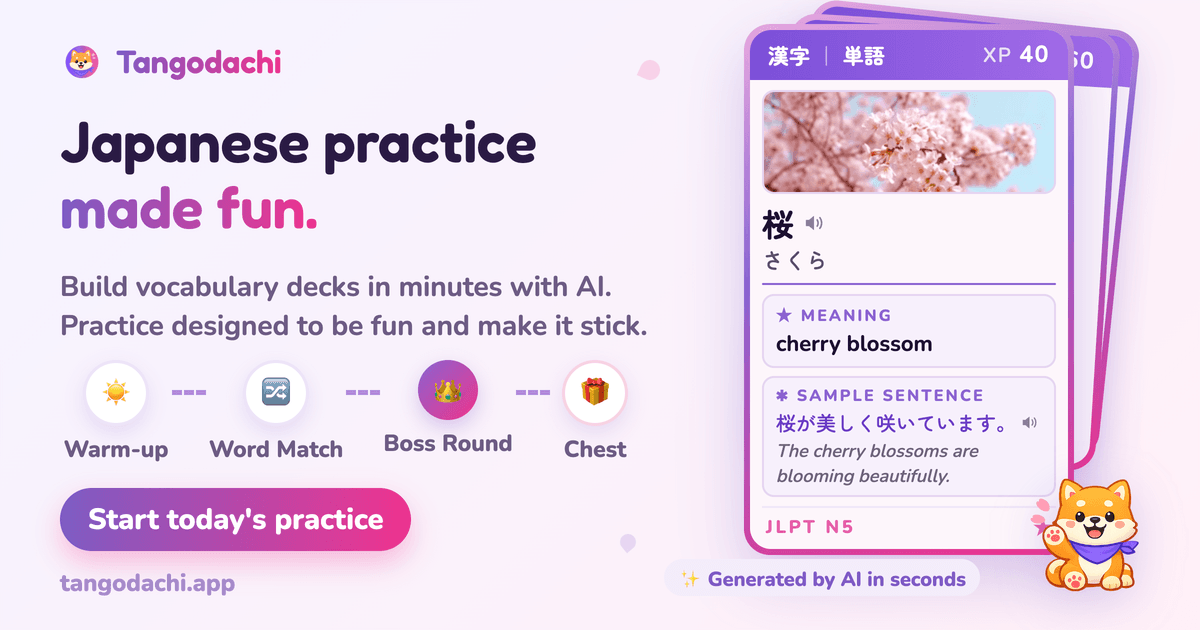
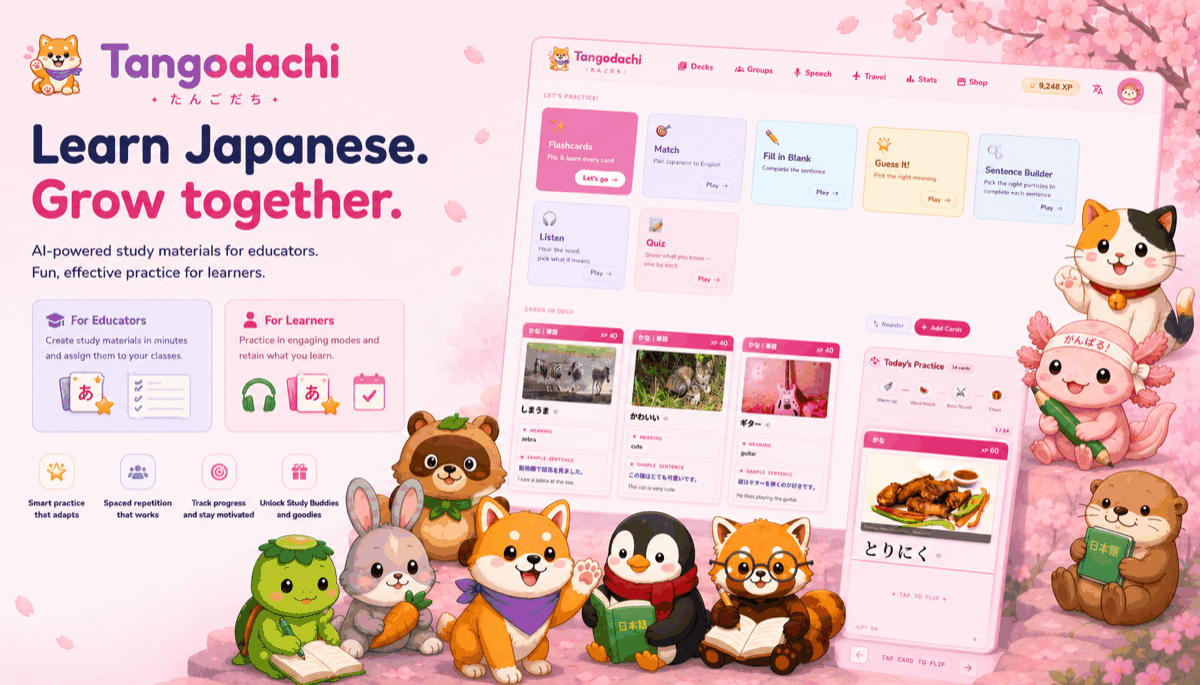
feat: update OG image to match newest brand

diff --git a/src/app/landing/ja/page.tsx b/src/app/landing/ja/page.tsx
@@ -48,7 +48,7 @@ export const metadata: Metadata = {
       {
         url: `${APP_URL}/og-image.png`,
         width: 1200,
-        height: 630,
+        height: 685,
         type: 'image/png',
       },
     ],

diff --git a/src/app/layout.tsx b/src/app/layout.tsx
@@ -50,7 +50,7 @@ export const metadata: Metadata = {
       {
         url: `${APP_URL}/og-image.png`,
         width: 1200,
-        height: 630,
+        height: 685,
         type: 'image/png',
       },
     ],
